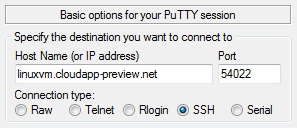
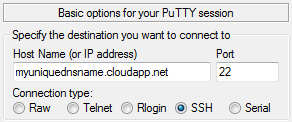
applied minor fixes

diff --git a/HOL.md b/HOL.md
@@ -80,7 +80,7 @@ In this exercise, you will learn how to provision Linux Virtual Machines in the 
 	 
 		_Creating a VM - VM Mode_
  
-	1. In the **VM Options** page, select the **Terms and Conditions and Privacy Policy** agreement checkbox and click the button to create a new VM.
+	1. In the **VM Options** page, click the button to create a new VM.
 
 		![Creating a VM - VM Options](images/creating-a-vm--vm-options.png?raw=true "Creating a VM - VM Options")
 
@@ -114,14 +114,15 @@ In this exercise, you will learn how to provision Linux Virtual Machines in the 
 Now that you have provisioned and configured a Linux Virtual Machine, you will connect by using an SSH client.
 
 >**Note:** You can download Putty, a free SSH client for Windows, here: [http://www.putty.org/](http://www.putty.org/)
- 
-1.	In the Windows Azure Portal, select the Linux VM from the list to enter the **Dashboard**. Locate the **DNS Name** field at the bottom of the page, which is the public address you will use to access and connect to the virtual machine.
 
-	![Dashboard - DNS name of the virtual machine](images/dashboard---dns-name-of-the-virtual-machine.png?raw=true)
-	 
-	_Dashboard  - DNS name of the virtual machine_
- 
-1. Open the Putty client (or any other SSH client) and create a new connection to the VM, using the public ssh port (E.g. 54022), and DNS name as the host name or IP address.
+
+1.	In the Windows Azure Portal, select the Linux VM from the list to enter the **Dashboard**. Take note of the **SSH Details** field at the "quick glance" section, which is the public address you will use to access and connect to the virtual machine using the SSH client.
+
+    ![SSH Endpoint](images/ssh-endpoint.png?raw=true "SSH Endpoint")
+
+    _SSH Endpoint_
+
+1. Open the Putty client (or any other SSH client) and create a new connection to the VM, using address and port from the previous step.
 
 	![Connecting to the Linux VM via Putty Client](images/connecting-to-the-linux-vm-via-putty-client.png?raw=true)
 	 
@@ -241,6 +242,12 @@ In this task, you will install and configure a Drupal portal on your Windows Azu
 	cd /srv/www/htdocs
 	mkdir drupal
 	cd drupal
+	````
+
+1.	Execute the following command to install **wget**.
+	
+	````Bash
+	zypper install wget
 	````
 
 1. Download and extract **Drupal**.
